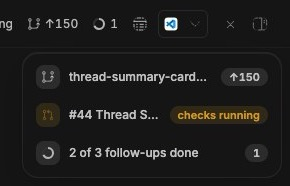
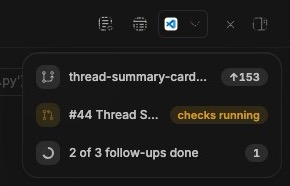
Retake Thread Summary's screenshots for the quieter header
The desktop card in light and dark with the header's chips stepped aside,
and the header with chips set to Icons only, from a live bb 0.45 run.

diff --git a/plugins/thread-summary/README.md b/plugins/thread-summary/README.md
@@ -29,8 +29,9 @@ and `bb plugin update` follows it.
 ![The same card in bb's dark theme](screenshots/desktop-card-dark.jpg)
 
 The `screenshots/` directory holds the frames for a store listing, taken from a
-live bb 0.45 window: the desktop card in light and dark, the phone header with
-its dot in place of chips, and the phone drawer.
+live bb 0.45 window: the desktop card in light and dark, with the header's
+chips stepped aside; the header with chips set to Icons only; the phone header
+with its dot in place of chips; and the phone drawer.
 
 ### The card
 
